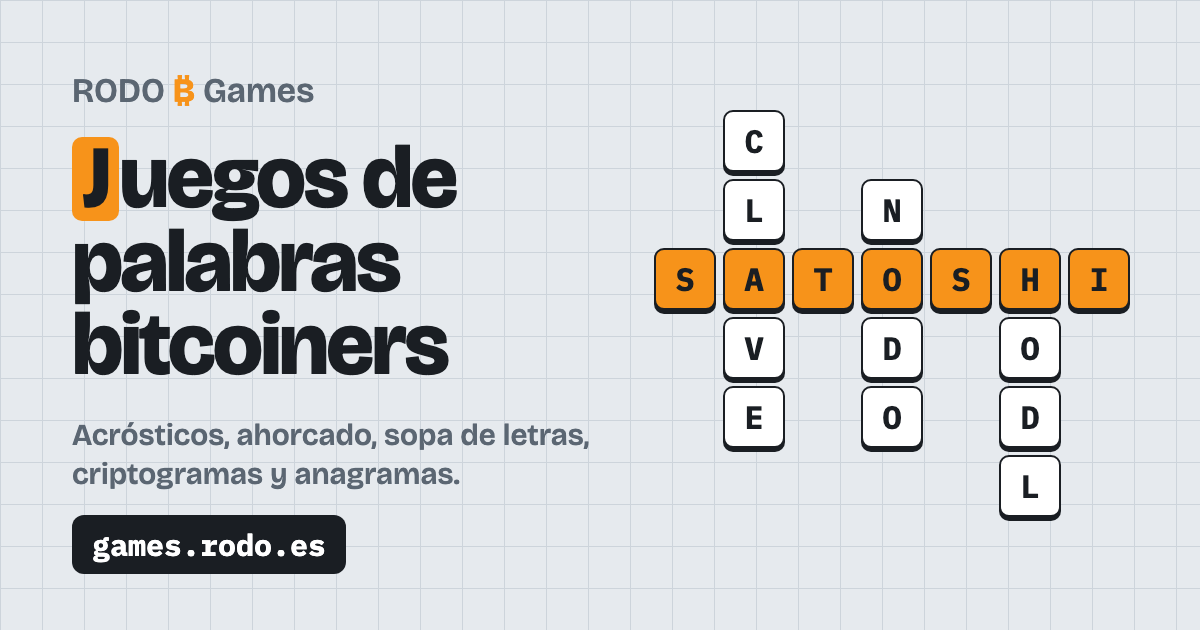
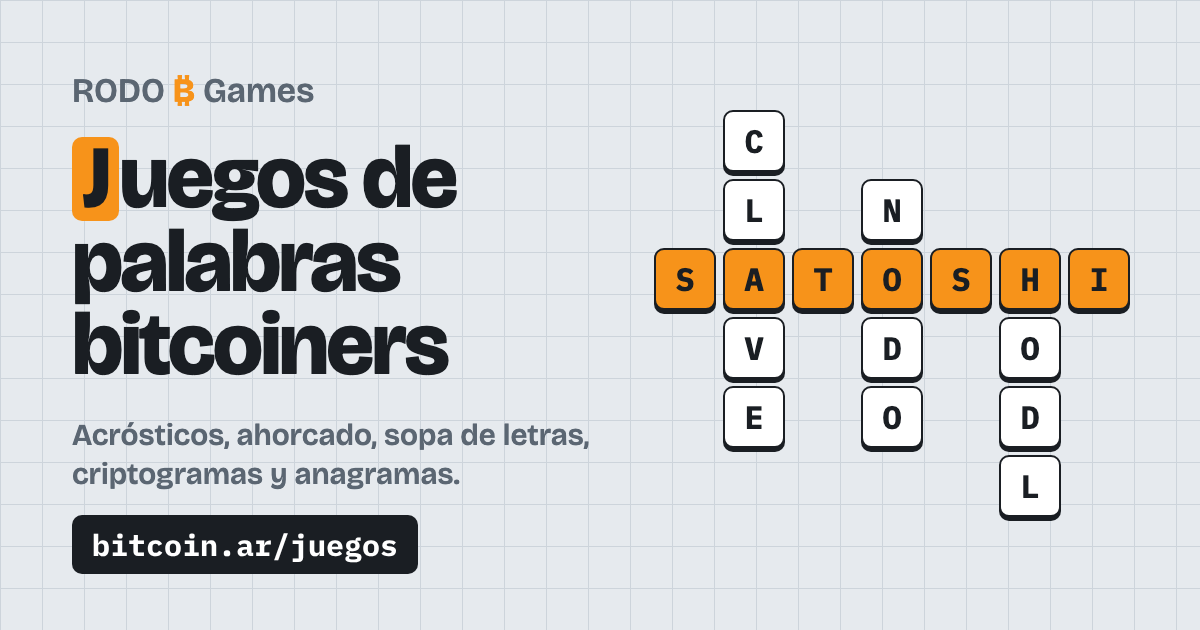
Imagen para compartir: bitcoin.ar/juegos en vez de games.rodo.es
Archivo nuevo og-juegos.png (las apps guardan la vista previa por URL); og.png queda con el mismo contenido.

Claude-Session: https://claude.ai/code/session_019B6eQUtED4DmcPchnqwVzh

Changed region(s): [[0.0617, 0.8143, 0.37, 0.9349]]

diff --git a/public/index.html b/public/index.html
@@ -15,7 +15,7 @@
 <meta property="og:title" content="RODO ₿ Games: juegos de palabras bitcoiners">
 <meta property="og:description" content="Acrósticos, ahorcado, sopa de letras, criptogramas y anagramas para bitcoiners.">
 <meta property="og:url" content="https://games.rodo.es/">
-<meta property="og:image" content="https://games.rodo.es/img/og.png">
+<meta property="og:image" content="https://games.rodo.es/img/og-juegos.png">
 <meta property="og:image:width" content="1200">
 <meta property="og:image:height" content="630">
 <meta property="og:image:alt" content="RODO ₿ Games: un mini crucigrama con SATOSHI, CLAVE, NODO y HODL">
